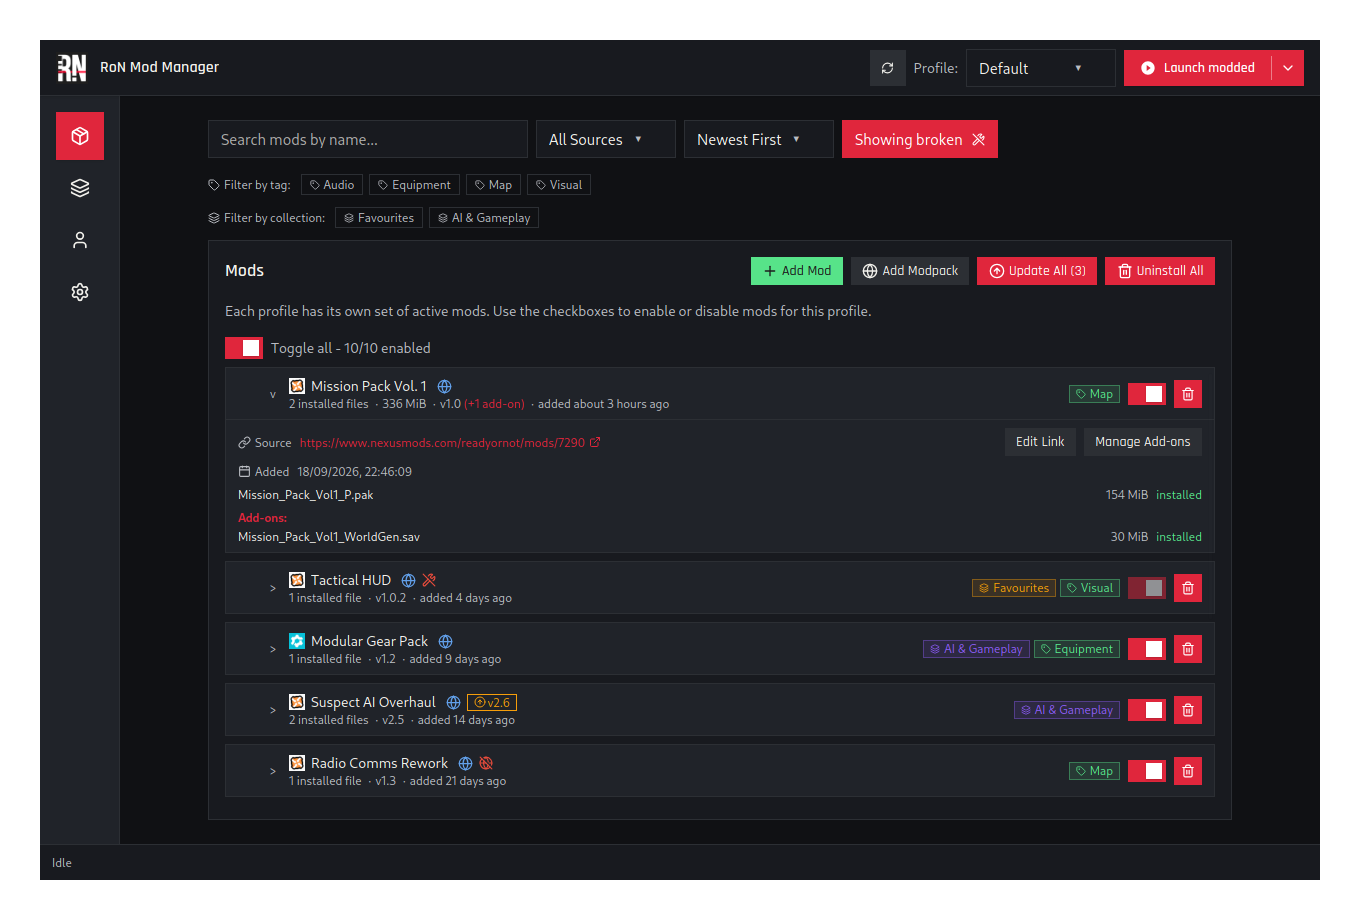
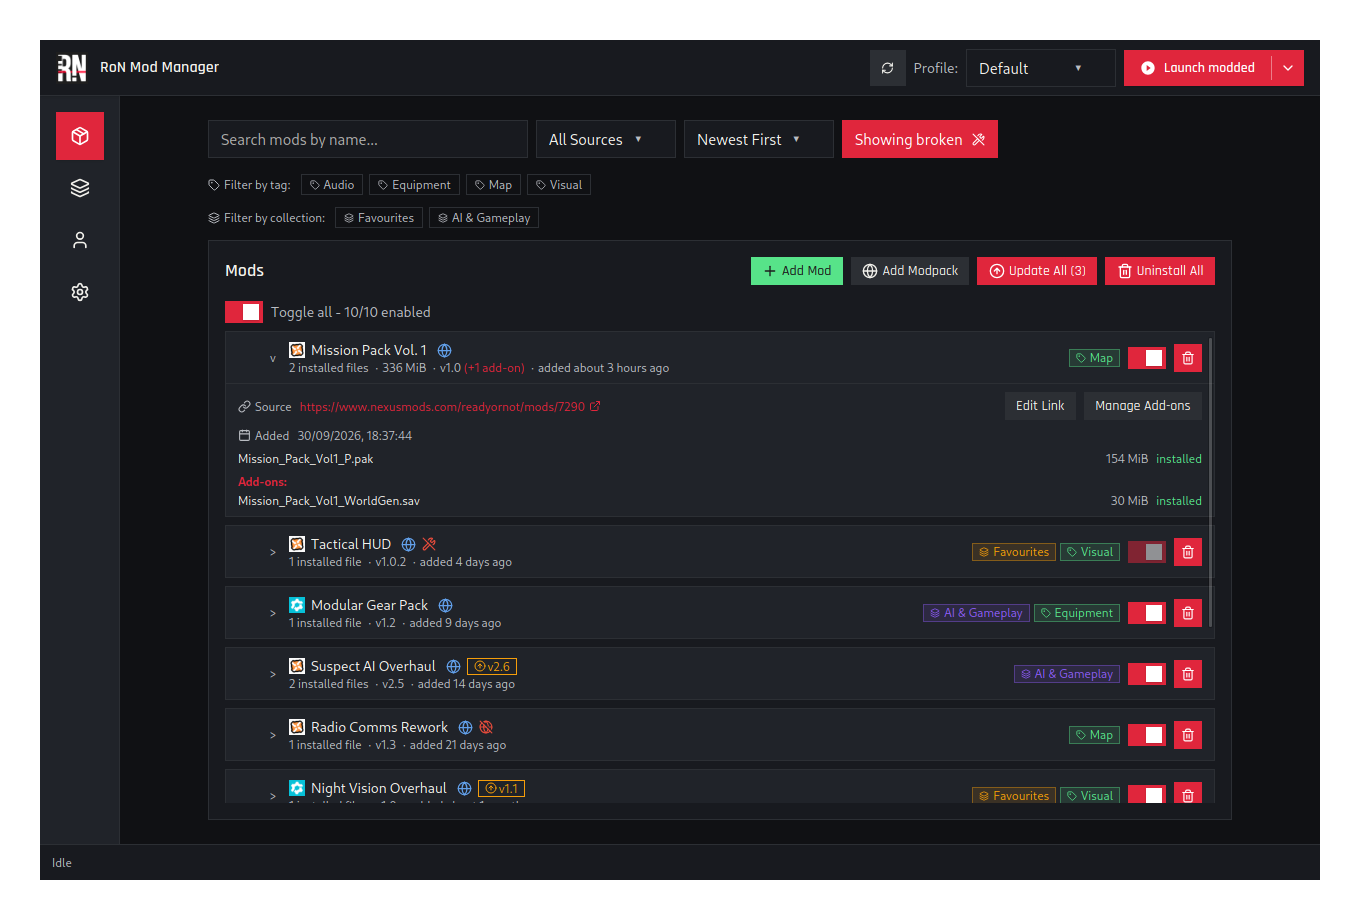
fix: remove confusing enable/disable mod hint

Changed region(s): [[0.1544, 0.3043, 0.6485, 0.8826], [0.6794, 0.5783, 0.8956, 0.8826], [0.7412, 0.3652, 0.8956, 0.5478]]

diff --git a/src/routes/mods/+page.svelte b/src/routes/mods/+page.svelte
@@ -2264,12 +2264,6 @@
       </div>
     </div>
 
-    <p style="color: var(--clr-text-secondary);" class="text-sm mb-4">
-      Each profile has its own set of active mods. Use the checkboxes to enable
-      or disable mods for this profile. {#if linkOnLaunchOnly}Changes take
-        effect on next launch; the game folder stays stock until then.{/if}
-    </p>
-
     {#if filteredModGroups.length > 0}
       <div class="flex items-center gap-2 mb-2">
         <label class="ron-switch" title="Toggle all mods on/off">
